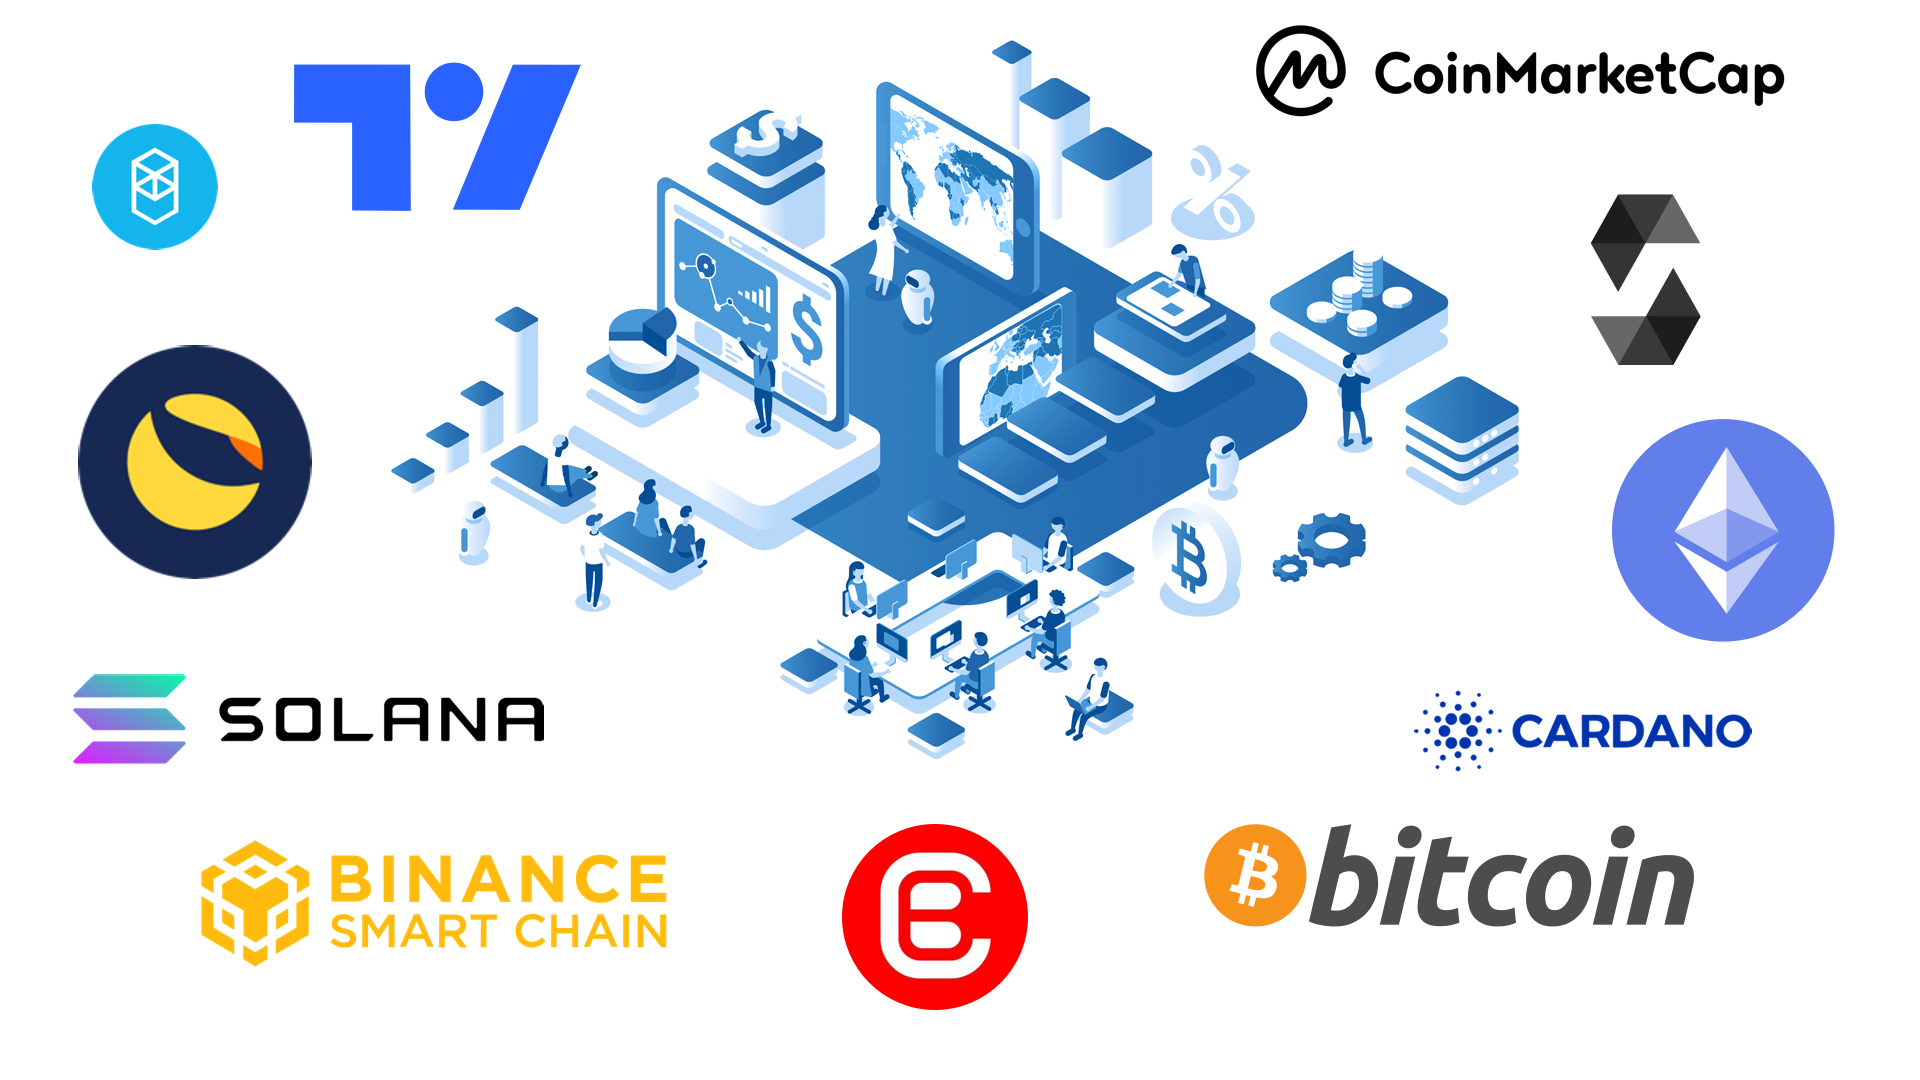
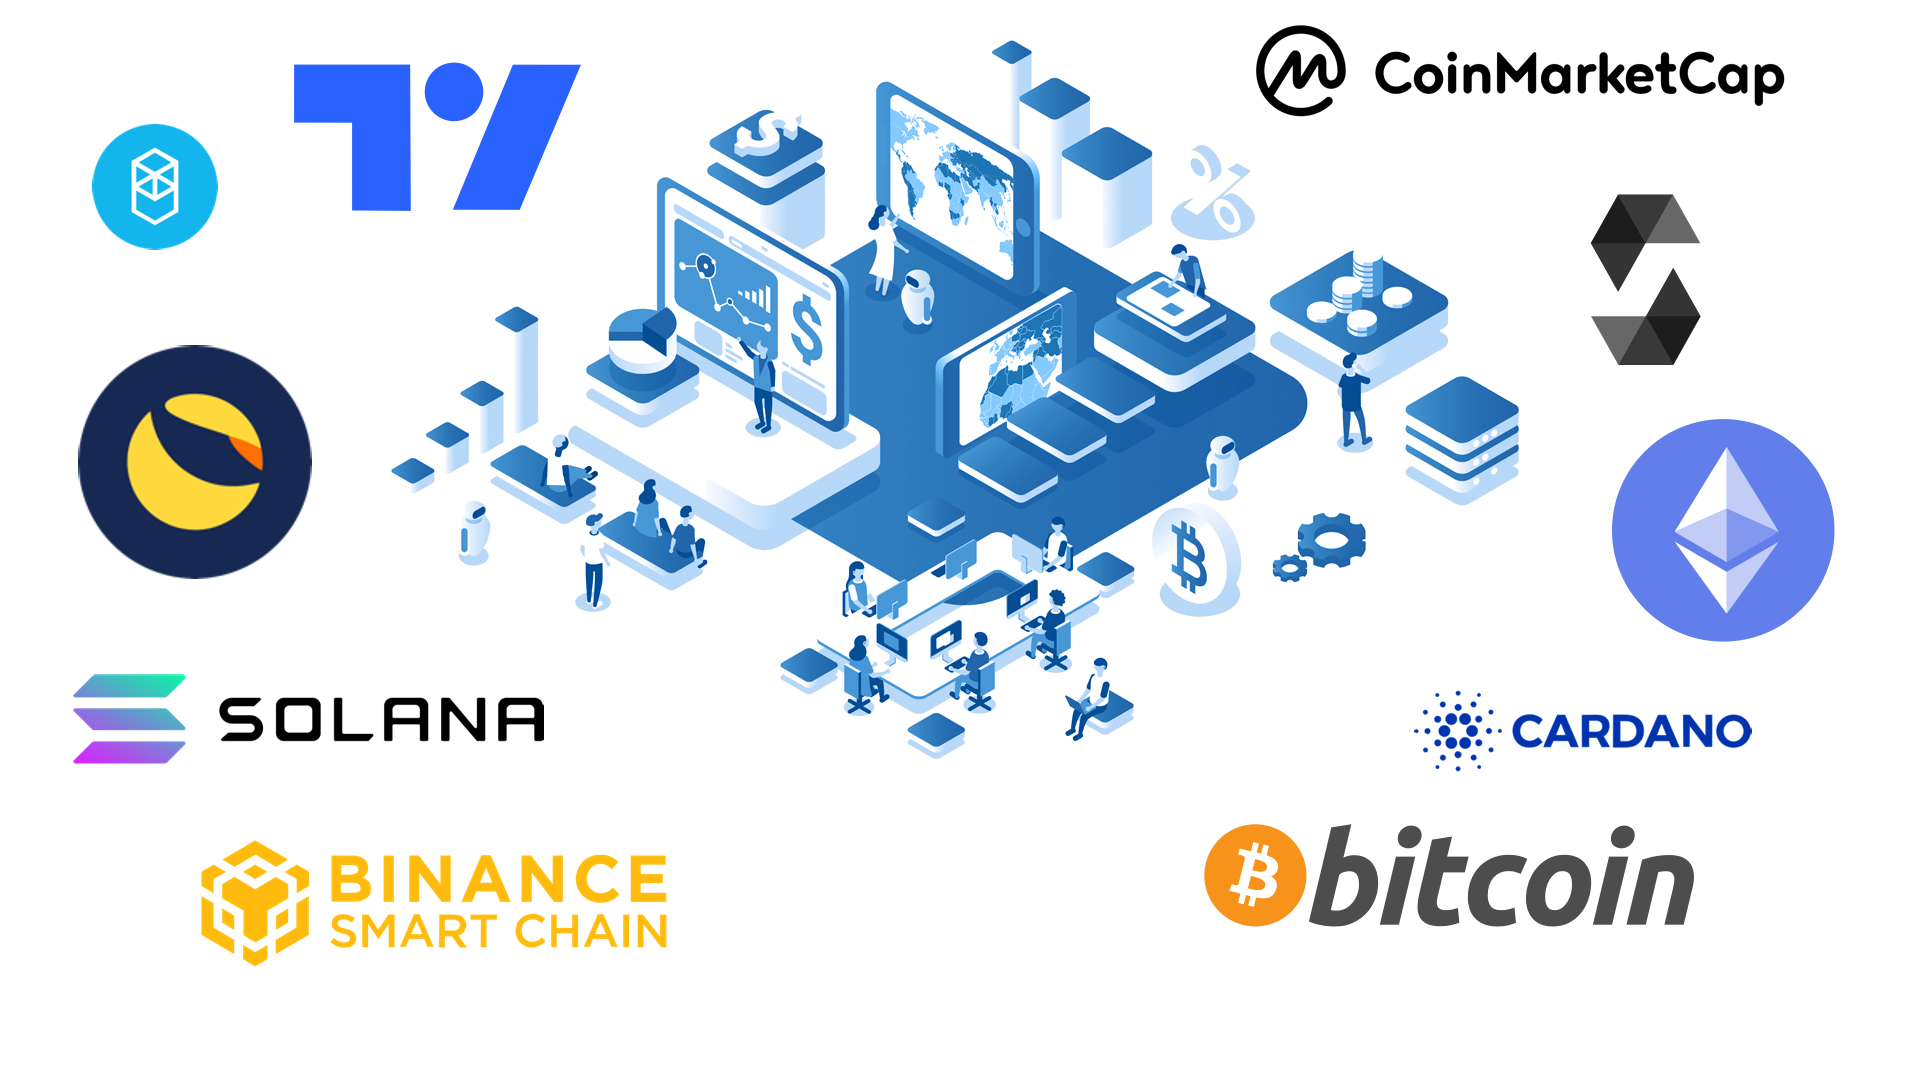
removed Solana

Changed region(s): [[0.4375, 0.7639, 0.5625, 0.9472]]

diff --git a/index.html b/index.html
@@ -54,7 +54,7 @@
 </head>
 
 <!-- //right click disable -->
-<body class="mybg" oncontextmenu="return true;">
+<body class="mybg" oncontextmenu="false">
 
     <!-- ScrollBar -->
     <div class="progressbar" id="progressBar"></div>
@@ -231,11 +231,11 @@
             ">Crypto / Blockchain / Trading:</p>
 
           <div class="changeDisplayImg">
-            <img class="cryptoskillimg" src="img/blockchain.png" 
+            <img draggable="false" class="cryptoskillimg" src="img/blockchain.png" 
             alt="Blockchain Powers">   
           </div>
           <div class="changeDisplayImgMobile">
-            <img class="cryptoskillimg" src="img/blockchainmobile.png" 
+            <img draggable="false" class="cryptoskillimg" src="img/blockchainmobile.png" 
             alt="Blockchain Powers">   
           </div>
         
@@ -267,7 +267,7 @@
                 
                 user-select: none;
                 height: auto;" 
-                
+                draggable="false"
                 src="img/musicSlidemini.png" 
                 alt="Production Powers">
                 </div>   
@@ -302,11 +302,11 @@
             
             
             <div class="changeDisplayImg">
-              <img class="cryptoskillimg" src="img/designSlide.png" 
+              <img draggable="false" class="cryptoskillimg" src="img/designSlide.png" 
               alt="Blockchain Powers">   
             </div>
             <div class="changeDisplayImgMobile">
-              <img class="cryptoskillimg" src="img/designSlidemobile.png" 
+              <img draggable="false" class="cryptoskillimg" src="img/designSlidemobile.png" 
               alt="Blockchain Powers">   
             </div>
 
@@ -369,11 +369,11 @@
             ">Game / App / Web Development:</p>
             
             <div class="changeDisplayImg">
-              <img class="cryptoskillimg" src="img/devSlide.png" 
+              <img draggable="false" class="cryptoskillimg" src="img/devSlide.png" 
               alt="Blockchain Powers">   
             </div>
             <div class="changeDisplayImgMobile">
-              <img class="cryptoskillimg" src="img/devSlidemobile.png" 
+              <img draggable="false" class="cryptoskillimg" src="img/devSlidemobile.png" 
               alt="Blockchain Powers">   
             </div>  
         
@@ -445,7 +445,7 @@
     <!-- Added Toast -->
     <a href="https://cutiezmetaverse.pantherbyte.eu" style="text-decoration: none;">
             <div data-aos="flip-left" data-aos-duration="1000" class="card cardRelAnim" id="liveToastBtn" >
-                <div class="card-image" style="background: url(img/CutiezMetaverseCard.png)"></div>
+                <div draggable="false" class="card-image" style="background: url(img/CutiezMetaverseCard.png)"></div>
                 <div class="card-text">
                   <span class="date" style="color: yellowgreen;">RELEASED</span>
                   <h2>Cutiez Metaverse</h2>
@@ -477,7 +477,7 @@ justify-content: center;">
 
             <a href="https://www.pantherbyte.eu" style="text-decoration: none;">
               <div data-aos="flip-left" data-aos-duration="1000"  class="card cardRelAnim">
-                <div class="card-image" style="background: url(img/PantherCard.png)"></div>
+                <div draggable="false" class="card-image" style="background: url(img/PantherCard.png)"></div>
                 <div class="card-text">
                   <span class="date" style="color: yellowgreen;">RELEASED</span>
                   <h2>Panther Byte Web</h2>
@@ -539,7 +539,7 @@ display: flex;
 justify-content: center;">
 <!-- Added Toast -->
               <div data-aos="flip-left" data-aos-duration="1000"  class="card" id="liveToastBtn"> 
-                <div class="card-image" style="background: url(img/GameCard.png)"></div>
+                <div draggable="false" class="card-image" style="background: url(img/GameCard.png)"></div>
                 <div class="card-text">
                   <span class="date">WORK IN PROGRESS</span>
                   <h2>Cipher Heroes</h2>
@@ -801,7 +801,7 @@ justify-content: center;">
         <!-- PantherByte -->
                 <a class="footer-link" href="https://www.pantherbyte.eu">
 
-                <img class="panther" src="img/pbLogoLink.png" width="24" height="24" alt="">
+                <img draggable="false" class="panther" src="img/pbLogoLink.png" width="24" height="24" alt="">
 
                 </a>
         <!--  -->

diff --git a/css/styles.css b/css/styles.css
@@ -80,6 +80,8 @@ strong {
   
 }
 
+
+
 .middleContainer{
   height: 100vh;
   width: 100vw;
